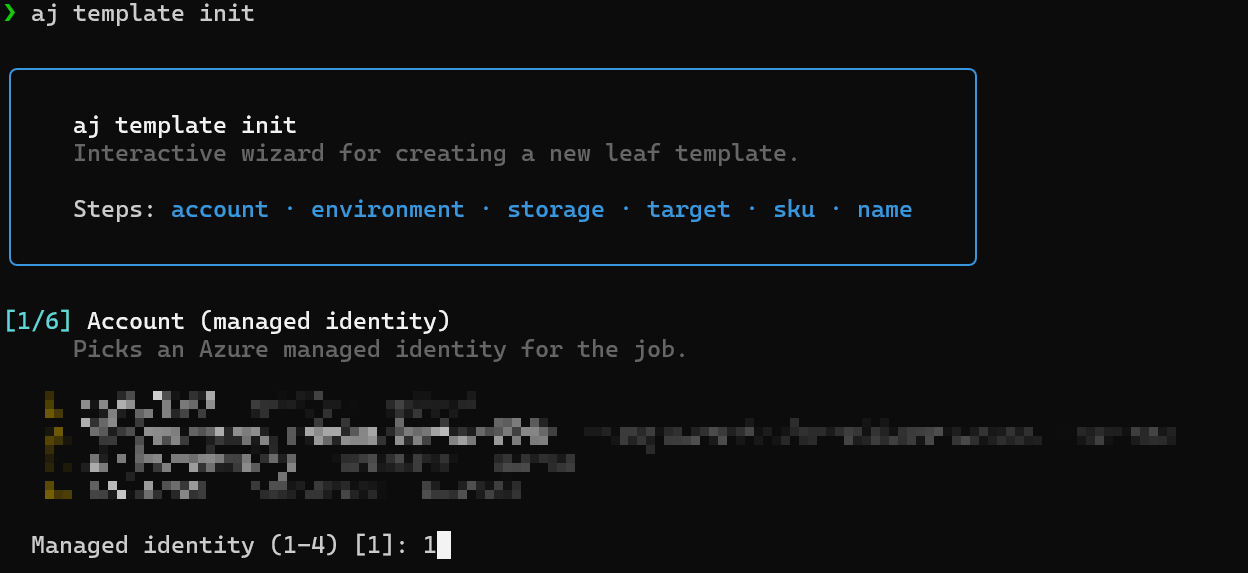
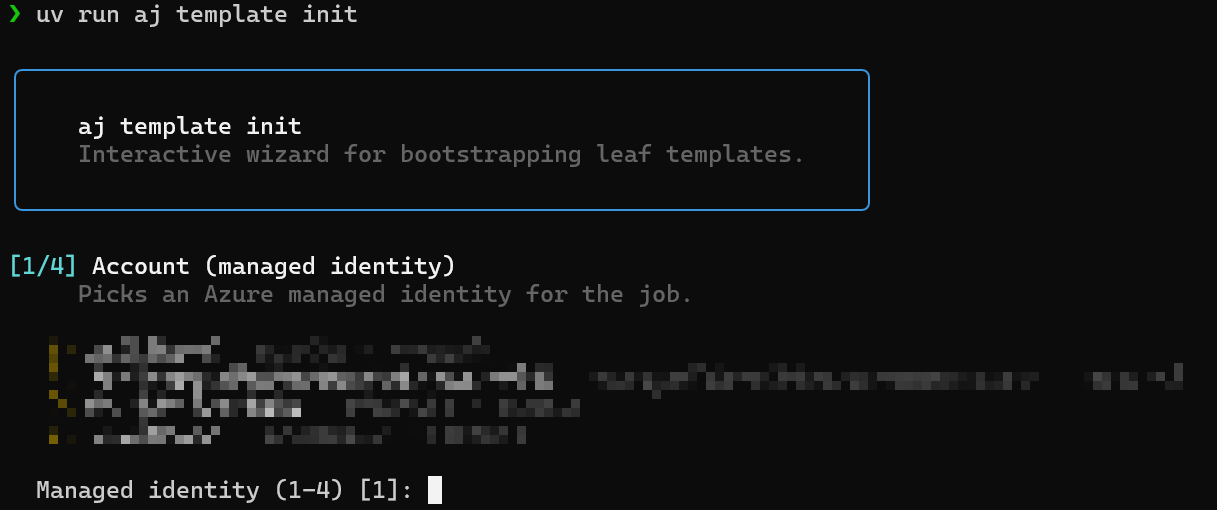
update: docs and simplify tempalte init

diff --git a/src/azure_jobs/cli/_template_init.py b/src/azure_jobs/cli/_template_init.py
@@ -371,10 +371,7 @@ def _intro() -> None:
     console.print(
         Panel.fit(
             "[bold]aj template init[/bold]\n"
-            "[dim]Interactive wizard for bootstrapping leaf templates.[/dim]\n\n"
-            "Steps: [cyan]account · environment · storage · workspace[/cyan]\n"
-            "[dim]Then one leaf is auto-generated per (VC, accelerator, memory) "
-            "combo with positive user quota.[/dim]",
+            "[dim]Interactive wizard for bootstrapping leaf templates.[/dim]",
             border_style="cyan",
             padding=(1, 4),
         )
